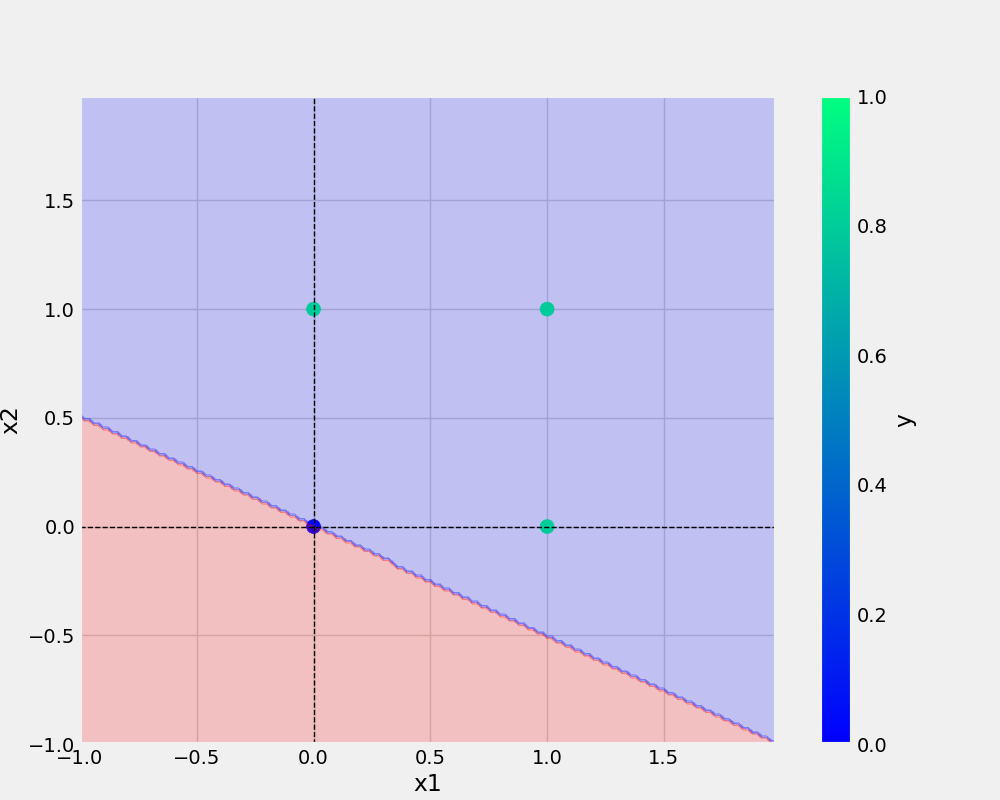
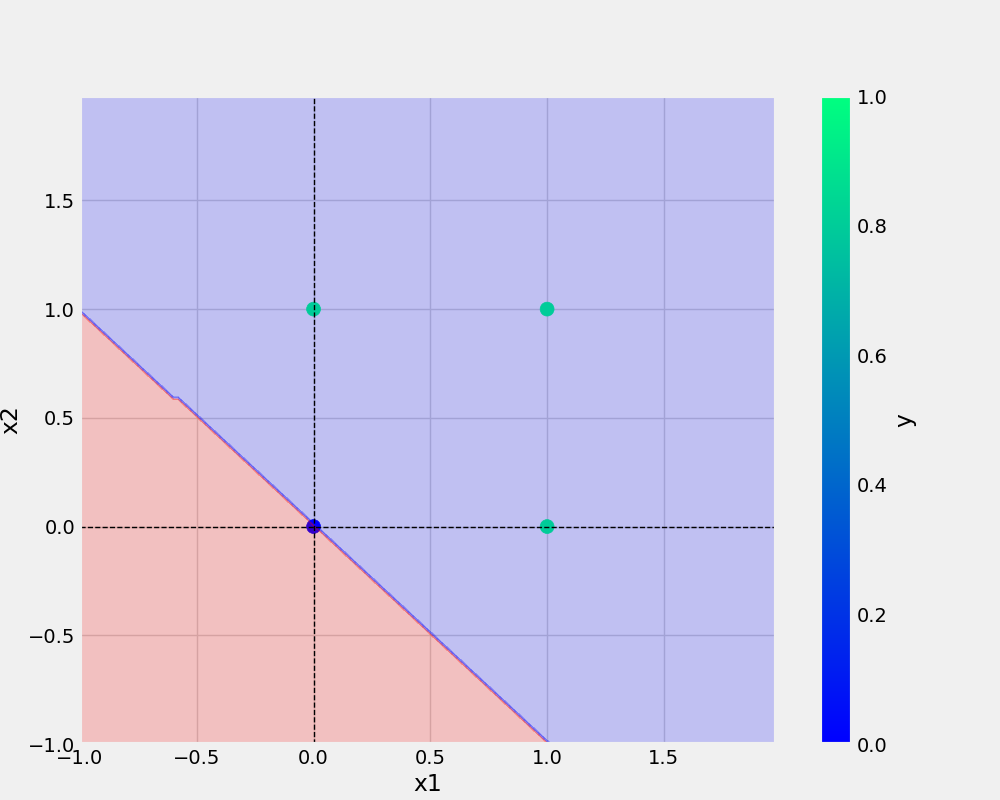
Logging Added and ProgressBar

Changed region(s): [[0.31, 0.6562, 0.775, 0.9375], [0.062, 0.375, 0.31, 0.6562]]

diff --git a/utils/all_utils.py b/utils/all_utils.py
@@ -3,6 +3,7 @@ import numpy as np
 import pandas as pd
 import joblib 
 import os
+import logging
 from matplotlib.colors import ListedColormap
 plt.style.use("fivethirtyeight")
 def prepare_data(df):
@@ -14,6 +15,7 @@ def prepare_data(df):
   Returns:
      tuples of independent and dependent feature
   """
+  logging.info("preparing the data by separating the data")
   X = df.drop("y", axis=1)
 
   y = df["y"]
@@ -27,10 +29,12 @@ def save_model(model, filename):
       model (python object): trained model to
       filename (str): path to save trained model
   """
+  logging.info("Saving the trained model")
   model_dir = "models"
   os.makedirs(model_dir, exist_ok=True) # ONLY CREATE IF MODEL_DIR DOESN"T EXISTS
   filePath = os.path.join(model_dir, filename) # model/filename
   joblib.dump(model, filePath)
+  logging.info(f"saved the trained model as {filePath}")
 
 
 def save_plot(df, file_name, model):
@@ -42,6 +46,7 @@ def save_plot(df, file_name, model):
       model (python object): trained model
   """
   def _create_base_plot(df):
+    logging.info("creating base plot")
     df.plot(kind="scatter", x="x1", y="x2", c="y", s=100, cmap="winter")
     plt.axhline(y=0, color="black", linestyle="--", linewidth=1)
     plt.axvline(x=0, color="black", linestyle="--", linewidth=1)
@@ -49,6 +54,7 @@ def save_plot(df, file_name, model):
     figure.set_size_inches(10, 8)
 
   def _plot_decision_regions(X, y, classfier, resolution=0.02):
+    logging.info("plotting Decision Region")
     colors = ("red", "blue", "lightgreen", "gray", "cyan")
     cmap = ListedColormap(colors[: len(np.unique(y))])
 
@@ -60,8 +66,8 @@ def save_plot(df, file_name, model):
 
     xx1, xx2 = np.meshgrid(np.arange(x1_min, x1_max, resolution), 
                            np.arange(x2_min, x2_max, resolution))
-    print(xx1)
-    print(xx1.ravel())
+    logging.info(xx1)
+    logging.info(xx1.ravel())
     Z = classfier.predict(np.array([xx1.ravel(), xx2.ravel()]).T)
     Z = Z.reshape(xx1.shape)
     plt.contourf(xx1, xx2, Z, alpha=0.2, cmap=cmap)
@@ -81,3 +87,4 @@ def save_plot(df, file_name, model):
   os.makedirs(plot_dir, exist_ok=True) # ONLY CREATE IF MODEL_DIR DOESN"T EXISTS
   plotPath = os.path.join(plot_dir, file_name) # model/filename
   plt.savefig(plotPath)
+  logging.info(f"saving the plt at {plotPath}")

diff --git a/utils/model.py b/utils/model.py
@@ -1,9 +1,10 @@
 import numpy as np
-
+import logging
+from tqdm import tqdm
 class Perceptron:
   def __init__(self, eta, epochs):
     self.weights = np.random.randn(3) * 1e-4 # SMALL WEIGHT INIT
-    print(f"initial weights before training: \n{self.weights}")
+    logging.info(f"initial weights before training: \n{self.weights}")
     self.eta = eta # LEARNING RATE
     self.epochs = epochs 
 
@@ -17,20 +18,20 @@ class Perceptron:
     self.y = y
 
     X_with_bias = np.c_[self.X, -np.ones((len(self.X), 1))] # CONCATINATION
-    print(f"X with bias: \n{X_with_bias}")
+    logging.info(f"X with bias: \n{X_with_bias}")
 
-    for epoch in range(self.epochs):
-      print("--"*10)
-      print(f"for epoch: {epoch}")
-      print("--"*10)
+    for epoch in tqdm(range(self.epochs),total=self.epochs,desc='Training the model'):
+      logging.info("--"*10)
+      logging.info(f"for epoch: {epoch}")
+      logging.info("--"*10)
 
       y_hat = self.activationFunction(X_with_bias, self.weights) # foward propagation
-      print(f"predicted value after forward pass: \n{y_hat}")
+      logging.info(f"predicted value after forward pass: \n{y_hat}")
       self.error = self.y - y_hat
-      print(f"error: \n{self.error}")
+      logging.info(f"error: \n{self.error}")
       self.weights = self.weights + self.eta * np.dot(X_with_bias.T, self.error) # backward propagation
-      print(f"updated weights after epoch:\n{epoch}/{self.epochs} : \n{self.weights}")
-      print("#####"*10)
+      logging.info(f"updated weights after epoch:\n{epoch}/{self.epochs} : \n{self.weights}")
+      logging.info("#####"*10)
 
 
   def predict(self, X):
@@ -39,5 +40,5 @@ class Perceptron:
 
   def total_loss(self):
     total_loss = np.sum(self.error)
-    print(f"total loss: {total_loss}")
+    logging.info(f"total loss: {total_loss}")
     return total_loss

diff --git a/or.py b/or.py
@@ -1,12 +1,22 @@
 from utils.model import Perceptron
 from utils.all_utils import prepare_data, save_model, save_plot
 import pandas as pd
+import logging
+import os
 
+logging_str = "[%(asctime)s: %(levelname)s: %(module)s: %(message)s]"
+log_dir="logs"
+os.makedirs(log_dir, exist_ok=True)
+logging.basicConfig(filename=os.path.join(log_dir,"running_logs.log") ,
+                        level=logging.INFO,
+                        format=logging_str,
+                        filemode='a')
 def main(data,eta,epochs,filename,imagefilename):
   
     df = pd.DataFrame(data)
 
-    print(df)
+    # print(df)
+    logging.info(f"This is the actual data frame{df}")
 
     X, y = prepare_data(df)
     model = Perceptron(eta=eta, epochs=epochs)
@@ -25,5 +35,12 @@ if __name__ == '__main__':
     }
     
     ETA = 0.3  # 0 and 1
-    EPOCHS = 10
-    main(data=OR,eta=ETA,epochs=EPOCHS,filename='or.model',imagefilename='or.png')
+    EPOCHS = 100
+    try:
+         logging.info(">>>>>>Started Training")
+         main(data=OR,eta=ETA,epochs=EPOCHS,filename='or.model',imagefilename='or.png')
+         logging.info(">>>>>>Ended Training")
+
+    except Exception as e:
+        logging.exception(e)
+        raise e
